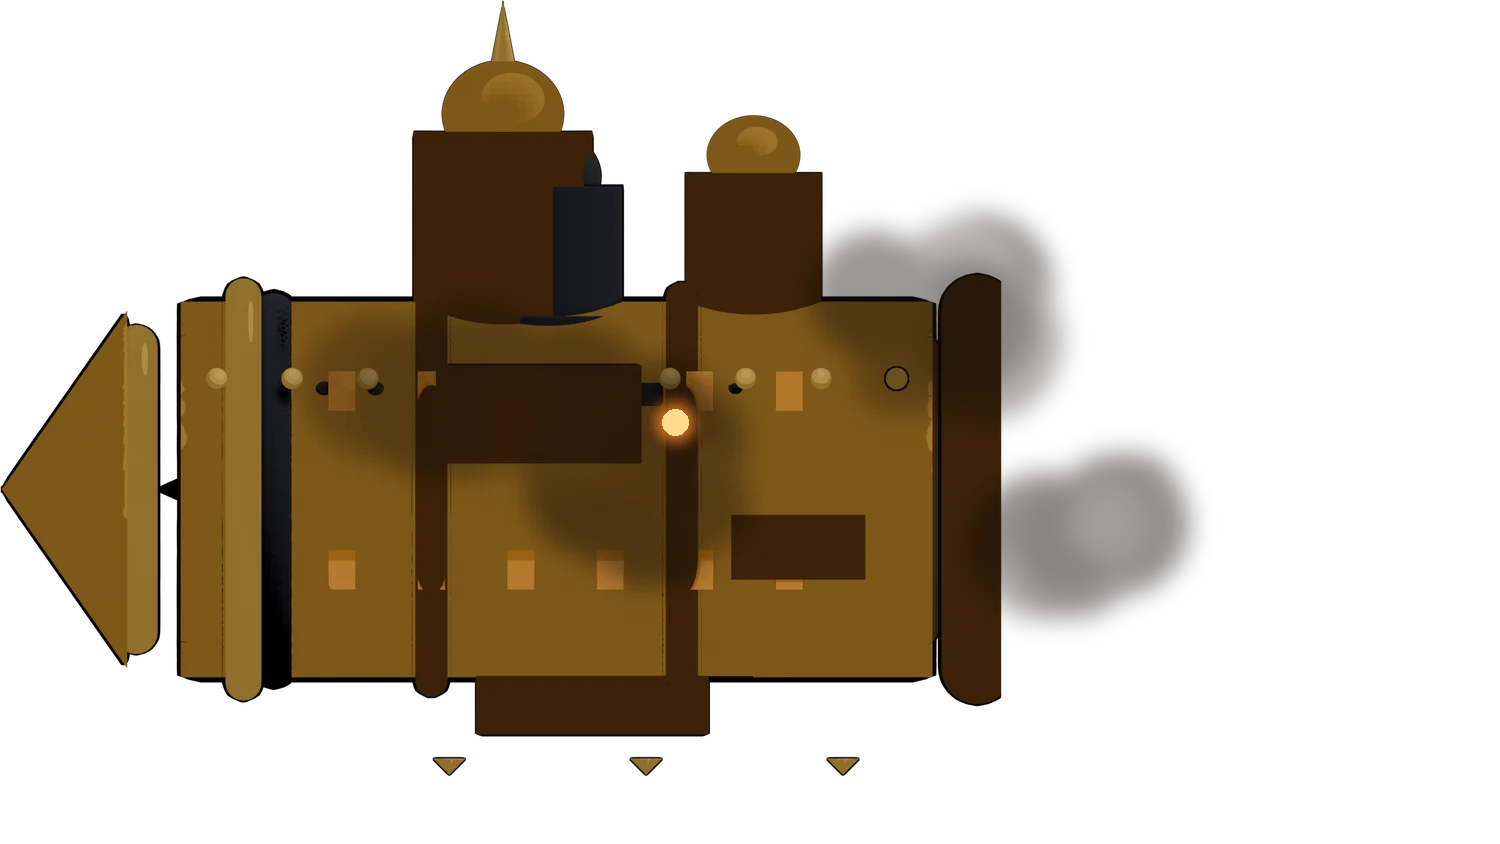
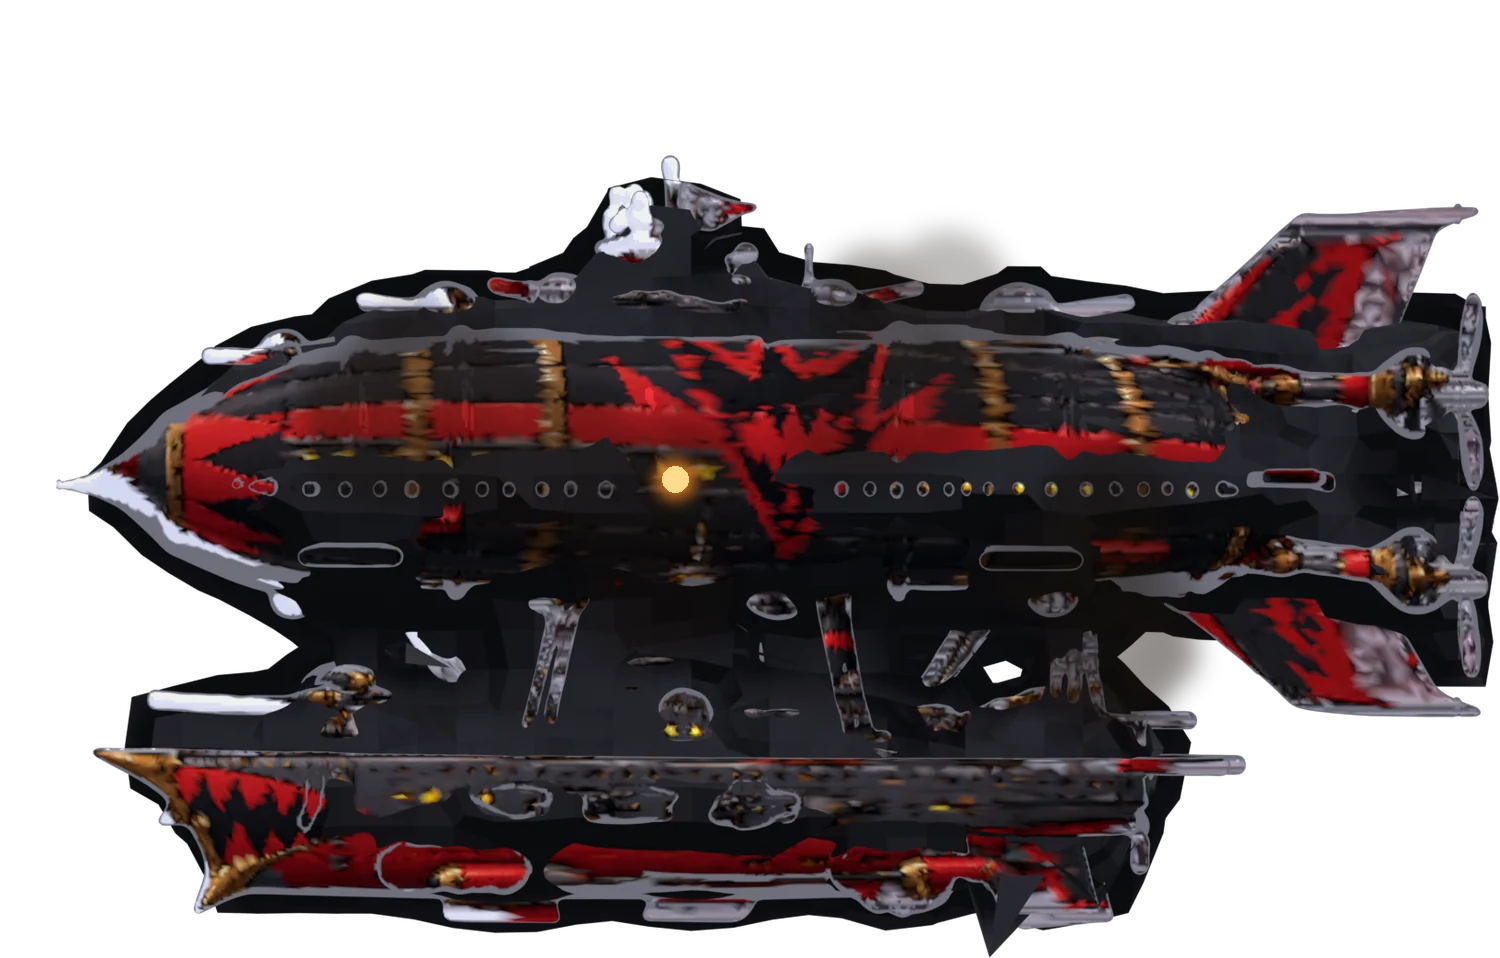
v21 wave: boss fleet + rings rebuilt — Hunyuan sculpts from painted refs, ornate painted rings

diff --git a/index.html b/index.html
@@ -156,6 +156,10 @@ const DUSTY = { wash: [202,150,82, 0.42], dark: 0.06 };
    in the title screen's corner opens this list so Lachlan can see what changed
    between ships. Kid-facing strings only! */
 const CHANGELOG = [
+  { v: "21", date: "2026-08-24", notes: [
+    "Boss fleet rebuilt: real sculpted warships, not blockouts",
+    "Golden rings got their ornate paint job",
+  ]},
   { v: "20", date: "2026-08-24", notes: [
     "Every world is a multiplane diorama now — skies, seas and snowfields slide on three layers",
     "Fluffy clouds drift by and grow as they pass, like real depth",
@@ -205,7 +209,7 @@ const CHANGELOG = [
 ];
 
 /* ---- Asset loading: pull from /images/, fall back to drawn shapes ---- */
-const ASSET_VER = 20;  // v20 wave: every world multiplaned, depth clouds, contact band
+const ASSET_VER = 21;  // v20 wave: every world multiplaned, depth clouds, contact band
 function loadImg(path) {
   const img = new Image();
   img.ok = false;
@@ -220,7 +224,7 @@ const ASSETS = {
   bg:     loadImg("images/background.webp"),
   player: loadImg("images/heropenguin.webp"),
   rings:  loadImg("images/rings.webp"),
-  ring3D: loadImg("images/ring-3d-v1.webp"),      // v7: baked torus (hole frac == RING.holeFrac)
+  ring3D: loadImg("images/ring-3d-v2.webp"),      // v21: painted ornate ring (hole frac == RING.holeFrac)
   boss:   loadImg("images/boss.webp"),
   boss2:  loadImg("images/boss2.webp"),    // the Dreadnought mothership (boss 2)
   gunDeck: loadImg("images/gun-deck-v4.webp"),

diff --git a/sw.js b/sw.js
@@ -1,7 +1,7 @@
 /* Cache-first service worker so the game shell and runtime images play offline
    once the app is installed. */
 
-var CACHE = "ipcf-v12-multiplane";
+var CACHE = "ipcf-v13-bossfleet";
 var CORE = [
   ".",
   "index.html",
@@ -80,7 +80,7 @@ var CORE = [
   "images/hero-strip-3d-v1.webp",
   "images/hero-strip-3d-v6.webp",
   "images/hero-spin-v5.webp",
-  "images/ring-3d-v1.webp",
+  "images/ring-3d-v2.webp",
   "images/heropenguin.webp",
   "images/icon-192.png",
   "images/icon-512.png",

diff --git a/tools/compose_boss_ai.py b/tools/compose_boss_ai.py
@@ -1,0 +1,117 @@
+#!/usr/bin/env python3
+"""Compose AI boss bakes into game-ready sprites (same filenames as before).
+
+The raw render is tight-cropped, the cannon bore (leftmost gun pixels) is
+measured from the alpha mask, and the canvas is padded so the bore lands on
+the muzzle fractions the engine already uses. Damage states reuse the seeded
+soot/ember machinery from compose_bosses. Also composes the AI ring into the
+287x520 cell the engine's RING3D_FRAME expects.
+
+Run from the repo root:  python3 tools/compose_boss_ai.py
+"""
+from PIL import Image
+import numpy as np
+import sys, os
+sys.path.insert(0, os.path.dirname(os.path.abspath(__file__)))
+from compose_bosses import soot
+
+SRC = "/tmp/opencode/i23d"
+# game constants (index.html startBoss): bore fractions per boss tier
+TIERS = {"cruiser": (-0.24, -0.18), "gundeck": (-0.34, 0.04), "dread": (-0.42, 0.08)}
+MAXW = 1500
+
+
+def bore_pixel(im):
+    """Centroid of opaque pixels in the leftmost 6% band = the gun mouth."""
+    a = np.asarray(im)[:, :, 3] > 24
+    cols = np.where(a.any(0))[0]
+    x0 = cols.min()
+    band = a[:, x0:x0 + max(4, int(im.width * 0.06))]
+    ys, xs = np.where(band)
+    return x0 + xs.mean(), ys.mean()
+
+
+def pad_to_bore_px(im, bx, by, fx, fy):
+    """Pad so the bore pixel sits at (0.5+fx, 0.5+fy) of the final canvas."""
+    W0, H0 = im.size
+    a = 0.5 + fx
+    padL = (a * W0 - bx) / (1 - a)
+    if padL < 0:
+        padL = 0
+        padR = bx / a - W0
+    else:
+        padR = 0
+    b = 0.5 + fy
+    padT = (b * H0 - by) / (1 - b)
+    if padT < 0:
+        padT = 0
+        padB = by / b - H0
+    else:
+        padB = 0
+    W, H = int(W0 + padL + padR), int(H0 + padT + padB)
+    out = Image.new("RGBA", (W, H), (0, 0, 0, 0))
+    out.paste(im, (int(padL), int(padT)))
+    return out, (bx + padL, by + padT)
+
+
+def bosses():
+    for name, (fx, fy) in TIERS.items():
+        im = Image.open(f"{SRC}/ai_{name}.png").convert("RGBA")
+        l, t, r, b = im.getbbox()
+        im = im.crop((l, t, r, b))
+        bx, by = bore_pixel(im)
+        im, (bx, by) = pad_to_bore_px(im, bx, by, fx, fy)
+        if im.width > MAXW:
+            k = MAXW / im.width
+            im = im.resize((MAXW, int(im.height * k)), Image.LANCZOS)
+            bx, by = bx * k, by * k
+        W, H = im.size
+        spots = [(0.42, 0.55), (0.62, 0.38), (0.30, 0.42), (0.72, 0.62), (0.52, 0.70)]
+        dmg = soot(im, [(W * a, H * b) for a, b in spots[:4]], seed=hash(name) & 0xffff,
+                   darken=0.06, embers=[(W * 0.45, H * 0.5)])
+        wrk = soot(im, [(W * a, H * b) for a, b in spots], seed=hash(name) & 0xffff,
+                   darken=0.14, embers=[(W * 0.45, H * 0.5), (W * 0.66, H * 0.35),
+                                        (W * 0.30, H * 0.45), (W * 0.55, H * 0.66)])
+        im.save(f"images/boss3d-{name}.webp", quality=88, method=6)
+        dmg.save(f"images/boss3d-{name}-damaged.webp", quality=88, method=6)
+        wrk.save(f"images/boss3d-{name}-wrecked.webp", quality=88, method=6)
+        print(f"boss3d-{name}.webp {W}x{H} bore frac ({bx / W - 0.5:+.3f}, {by / H - 0.5:+.3f}) target ({fx:+.3f}, {fy:+.3f})")
+
+
+def ring():
+    """Compose the painted ring ref straight into the 287x520 cell.
+
+    Hole is measured from the center row/col runs and cut as an ellipse —
+    flood fills leak through anti-aliased seams in the painted outline.
+    """
+    im = Image.open("images/generated-refs/ring.png").convert("RGB")
+    a = np.asarray(im)
+    nonwhite = a.min(-1) < 235   # uint8! ~0.92*255
+    H, W = nonwhite.shape
+    cy, cx = H // 2, W // 2
+    row = np.where(nonwhite[cy])[0]
+    col = np.where(nonwhite[:, cx])[0]
+    hx0, hx1 = row[row < cx].max(), row[row > cx].min()   # inner edges on row
+    hy0, hy1 = col[col < cy].max(), col[col > cy].min()
+    hole_w, hole_h = hx1 - hx0, hy1 - hy0
+    yy, xx = np.mgrid[0:H, 0:W]
+    ell = (((xx - cx) / (hole_w / 2)) ** 2 + ((yy - cy) / (hole_h / 2)) ** 2) <= 1.12
+    whiteish = ~nonwhite
+    hole = whiteish & ell
+    alpha = np.where(nonwhite | hole, 255, 0).astype(np.uint8)
+    rgba = np.dstack([a, alpha])
+    ys, xs = np.where(alpha > 0)
+    l, t, r, b = xs.min(), ys.min(), xs.max() + 1, ys.max() + 1
+    im2 = Image.fromarray(rgba[t:b, l:r])
+    k = 301.0 / hole_h
+    im2 = im2.resize((max(1, int(im2.width * k)), max(1, int(im2.height * k))), Image.LANCZOS)
+    im2 = im2.resize((287, max(1, int(im2.height * 287 / im2.width))), Image.LANCZOS)
+    cell = Image.new("RGBA", (287, 520), (0, 0, 0, 0))
+    cell.paste(im2, (0, (520 - im2.height) // 2), im2)
+    cell.save("images/ring-3d-v2.webp", quality=90, method=6)
+    print(f"ring-3d-v2.webp 287x520 from ref, hole {hole_w}x{hole_h}px k={k:.3f}")
+
+
+if __name__ == "__main__":
+    bosses()
+    ring()

diff --git a/tools/bake_boss_ai.py b/tools/bake_boss_ai.py
@@ -1,0 +1,104 @@
+# Render an AI-sculpted boss/ring mesh once, side view, hi-res + transparent.
+#   blender --background --python tools/bake_boss_ai.py -- <mesh.glb> <ref.png> <out.png> <res>
+# The Hunyuan mesh's painted flank faces -Y at import and the boss guns point
+# -X — exactly the game orientation, so no rotation is applied.
+import bpy, sys, math, os
+from mathutils import Vector, Euler
+
+argv = sys.argv[sys.argv.index("--") + 1:]
+GLB, REF, OUT, RES = argv[0], argv[1], argv[2], int(argv[3])
+
+bpy.ops.wm.read_factory_settings(use_empty=True)
+bpy.ops.import_scene.gltf(filepath=GLB)
+meshes = [o for o in bpy.context.scene.objects if o.type == 'MESH']
+
+mins = Vector((1e9,) * 3); maxs = Vector((-1e9,) * 3)
+for o in meshes:
+    for c in o.bound_box:
+        w = o.matrix_world @ Vector(c)
+        mins = Vector(map(min, mins, w)); maxs = Vector(map(max, maxs, w))
+size = max(maxs - mins); center = (mins + maxs) / 2
+root = bpy.data.objects.new("ROOT", None)
+bpy.context.scene.collection.objects.link(root)
+for o in meshes:
+    o.parent = root
+root.scale = (2.0 / size,) * 3
+root.location = tuple(-c * 2.0 / size for c in center)
+
+# thin the dense AI mesh, then paint it from the Codex side view
+import sys as _s, os as _o
+_s.path.insert(0, _o.path.dirname(_o.path.abspath(__file__)))
+import project_colors, toon
+os.environ["TOON_POP"] = "0.25"
+toon.TOON_POP = 0.25
+for o in meshes:
+    mod = o.modifiers.new("dec", "DECIMATE")
+    mod.ratio = 0.35
+    bpy.context.view_layer.objects.active = o
+    o.select_set(True)
+    bpy.ops.object.modifier_apply(modifier="dec")
+    o.select_set(False)
+bpy.context.view_layer.update()
+# far-flank view = mirrored ref (a side profile seen from behind is its mirror)
+project_colors.project_multi(meshes, [
+    {"img": REF, "campos": (0, -1, 0), "u_axis": 0, "u_sign": 1},
+    {"img": REF, "campos": (0, 1, 0),  "u_axis": 0, "u_sign": -1, "flip": True},
+])
+
+
+def light(name, kind, loc, energy, rot=(0, 0, 0), color=(1, 1, 1), size=2):
+    d = bpy.data.lights.new(name, kind)
+    d.energy = energy; d.color = color
+    if kind == 'AREA':
+        d.size = size
+    o = bpy.data.objects.new(name, d)
+    o.location = loc
+    o.rotation_euler = Euler([math.radians(a) for a in rot])
+    bpy.context.scene.collection.objects.link(o)
+
+
+light("Key", 'SUN', (-4, -3, 5), 2.0, rot=(42, 0, 38))
+light("Fill", 'AREA', (4, -2, 1), 70, rot=(65, 0, -55), color=(0.72, 0.82, 1.0))
+light("Rim", 'AREA', (0, 3.5, 3), 110, rot=(-40, 0, 180), size=5)
+
+world = bpy.data.worlds.new("W")
+world.use_nodes = True
+world.node_tree.nodes['Background'].inputs['Color'].default_value = (0.55, 0.6, 0.68, 1)
+world.node_tree.nodes['Background'].inputs['Strength'].default_value = 0.12
+bpy.context.scene.world = world
+
+cam_d = bpy.data.cameras.new("Cam")
+cam_d.type = 'ORTHO'
+cam_d.ortho_scale = 2.3
+cam = bpy.data.objects.new("Cam", cam_d)
+cam.location = (0, -8, 0)
+cam.rotation_euler = (math.radians(90), 0, 0)
+bpy.context.scene.collection.objects.link(cam)
+bpy.context.scene.camera = cam
+
+argv2 = sys.argv[sys.argv.index("--") + 2:] if len(sys.argv) > sys.argv.index("--") + 2 else []
+if "nohull" in argv2:
+    for o in meshes:
+        for slot in o.material_slots:
+            toon.toonify_material(slot.material)
+else:
+    toon.toonify_scene(outline_frac=0.018)
+
+sc = bpy.context.scene
+for eng in ('BLENDER_EEVEE_NEXT', 'BLENDER_EEVEE'):
+    try:
+        sc.render.engine = eng
+        break
+    except TypeError:
+        continue
+aspect = (maxs - mins).x / (maxs - mins).z if (maxs - mins).z else 1.5
+sc.render.resolution_x = RES
+sc.render.resolution_y = int(RES / max(aspect, 0.6))
+sc.render.film_transparent = True
+sc.view_settings.view_transform = 'Standard'
+sc.view_settings.exposure = 0.7
+sc.render.image_settings.file_format = 'PNG'
+sc.render.image_settings.color_mode = 'RGBA'
+sc.render.filepath = OUT
+bpy.ops.render.render(write_still=True)
+print("DONE", OUT)

diff --git a/tools/project_colors.py b/tools/project_colors.py
@@ -37,15 +37,32 @@ def _load(path):
     W, H = img.size
     px = np.empty(W * H * 4, dtype=np.float32)
     img.pixels.foreach_get(px)
-    return px.reshape(H, W, 4)
+    px = px.reshape(H, W, 4).copy()
+    # inpaint white background gaps (visible through mesh concavities):
+    # fill each white pixel with the nearest non-white pixel in its row
+    nonwhite = px[..., :3].min(-1) < 0.72   # eat AA halos too
+    xs = np.arange(W)[None, :]
+    idx = np.where(nonwhite, xs, -1)
+    fwd = np.maximum.accumulate(idx, axis=1)
+    bwd = np.minimum.accumulate(idx[:, ::-1], axis=1)[:, ::-1]
+    has_f = fwd >= 0
+    has_b = bwd >= 0
+    use_f = has_f & (~has_b | (xs - fwd <= bwd - xs))
+    nearest = np.where(use_f, fwd, bwd)
+    nearest = np.clip(nearest, 0, W - 1)
+    rows = np.arange(H)[:, None]
+    px[~nonwhite] = px[rows, nearest][~nonwhite]
+    return px
 
 
-def project_multi(objs, views, fallback=(0.6, 0.6, 0.6)):
+def project_multi(objs, views, fallback=(0.24, 0.23, 0.22)):
     bpy.context.view_layer.update()
 
     loaded = []
     for v in views:
         px = _load(v["img"])
+        if v.get("flip"):
+            px = px[:, ::-1].copy()   # mirrored view (no PIL inside blender)
         bx0, by0, bx1, by1 = _content_bbox(px)
         campos = np.array(v["campos"], dtype=np.float64)
         loaded.append({
@@ -86,7 +103,7 @@ def project_multi(objs, views, fallback=(0.6, 0.6, 0.6)):
         wsum = np.zeros(n, dtype=np.float64)
         for V in loaded:
             w = np.maximum(0.0, wn @ V["wdir"]) ** 3   # sharp view selection
-            mask = w > 0.02
+            mask = w > 0.15   # reject grazing/noisy normals (white bg speckles)
             if not mask.any():
                 continue
             axis = V["axis"]

diff --git a/tools/toon.py b/tools/toon.py
@@ -10,7 +10,10 @@ Import from a bake script:
     import toon
     toon.toonify_scene(outline_frac=0.015)
 """
-import bpy
+import bpy, os
+
+# rim+sheen strength knob: 1.0 for characters, lower for big flat machines
+TOON_POP = float(os.environ.get("TOON_POP", "1.0"))
 
 BANDS = ((0.46, 0.48, 0.62, 1), (0.86, 0.87, 0.92, 1), (1.10, 1.10, 1.10, 1))
 BAND_POS = (0.0, 0.42, 0.76)
@@ -90,7 +93,7 @@ def toonify_material(mat):
     fmul.inputs["Color2"].default_value = (1.0, 0.93, 0.80, 1)  # warm rim
     fadd = nt.nodes.new("ShaderNodeMixRGB")
     fadd.blend_type = "ADD"
-    fadd.inputs["Fac"].default_value = 0.32
+    fadd.inputs["Fac"].default_value = 0.32 * TOON_POP
 
     if src_node is not None:
         nt.links.new(src, diff.inputs["Color"])
@@ -106,7 +109,7 @@ def toonify_material(mat):
     gmul = nt.nodes.new("ShaderNodeMixRGB")
     gmul.blend_type = "MULTIPLY"
     gmul.inputs["Fac"].default_value = 1.0
-    gmul.inputs["Color2"].default_value = (0.45, 0.45, 0.5, 1)
+    gmul.inputs["Color2"].default_value = (0.45 * TOON_POP, 0.45 * TOON_POP, 0.5 * TOON_POP, 1)
     nt.links.new(gloss.outputs[0], gs2r.inputs[0])
     nt.links.new(gs2r.outputs[0], gramp.inputs[0])
     nt.links.new(mix.outputs[0], gmul.inputs["Color1"])
